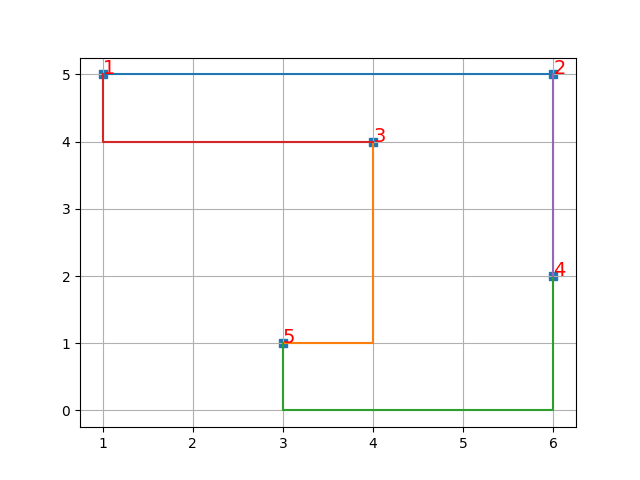
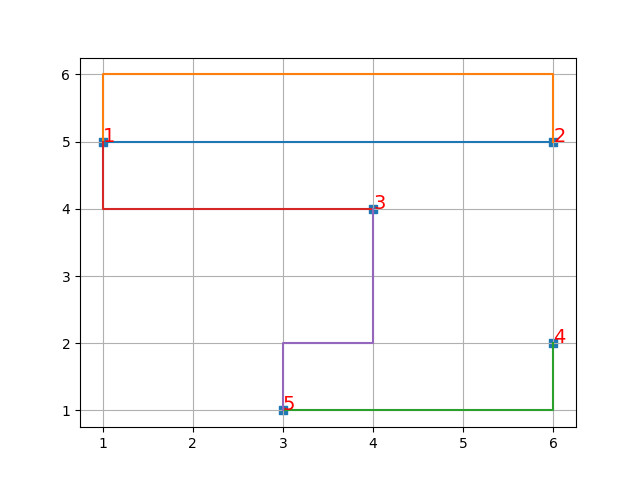
eerste versie van a-star toegevoegd in versie2

diff --git a/versie2.py b/versie2.py
@@ -1,3 +1,4 @@
+from queue import Empty
 from sys import getallocatedblocks
 import matplotlib
 from matplotlib import pyplot as plt
@@ -35,6 +36,18 @@ class board:
         self.nets = {}
         self.cost = 0
 
+class path:
+    def __init__(self, coordinates):
+        self.wires = coordinates
+        self.score = 0
+
+class node:
+    def __init__(self, location, parent):
+        self.location = location
+        self.parent = parent
+        self.g = 0
+        self.h = 0
+        self.f = 0
 
 # read chip data of csv file input
 # Function reads the coordinates of the gates on the print, and the netlist
@@ -73,10 +86,6 @@ print("Netlist: ", netlist)
 print("Gates: ", gates)
 print("Gate locations: ", gatelocations)
 
-random.shuffle(netlist)
-print("Netlist na shuffelen: ")
-print(netlist)
-
 bord1 = board(gates)
 
 print("Bord breedte: ", bord1.width)
@@ -84,106 +93,126 @@ print("Bord lengte: ", bord1.length)
 print("")
 
 
-
-# Niet echt meer nodig als we een betere draw hebben
-# # Basic printing function to visualize board configuration
-# def print_board(board):
-#     for y in range(board.length - 1, -1, -1):
-#         row = []
-
-#         for x in range(0, board.width):
-#             al_geprint = False
-
-#             for gate in board.gates:
-                
-#                 if (gate[1], gate[2]) == (x, y):
-#                     print("", gate[0], "", end = '')
-#                     al_geprint = True
-            
-#             if al_geprint == False:            
-#                 print(" + ", end = '')
-
-#         print("\n")
-
-# print_board(bord1)
-
-
 # Create a path on board from loc to dest
 # Branch from starting location and continue to branch to find paths to dest
-def make_net(board, loc, dest, objectives):
-    print("Objective = moving from gate ", objectives[0][0], " to ", objectives[0][1])
-    print("Finding path from ", loc, " to ", dest, "...")
-    hypothetical_paths = [[loc]]
-    result_boards = []
+def make_net(board, start, goal):
+    print("Finding path from ", start, " to ", goal, "...")
+    starting_node = node(start, None)
 
-    moving_possible = True
-    while moving_possible == True:
+    # open list
+    options = [starting_node]
+    # closed list
+    seen = []
 
-        new_paths = []
-        for path in hypothetical_paths:
-            # Check the cardinal direction of last move from path to avoid
-            # backtracking and getting stuck in a loop.
-            origin = get_origin(path)
-            moves = get_moves(board, path, origin)
+    # moving_possible = True
+    # while moving_possible == True:
 
-            # For each spot found that can be moved to, add a new 
-            # path (= old path + spot) to the collection of paths
-            for move in moves:
-                if move != False:
-                    new_path = path + [move]
-                    
-                    # Check if path is a path to destination
-                    # If more than one objective is left, start making net for
-                    # next objective. If not, the final path for current
-                    # configuration is found, so return the board.
-                    if move == dest:
-                        board.nets[objectives[0]] = new_path
-                        print("found path: ")
-                        print(new_path)
-                        print("")
+    # While the collection of paths is not empty, extend the path with the
+    # lowest score (which represents the shortest distance to goal)
+    # 
+    # while options are left:
+    #   pop lowest cost option
+    #   add to closed list (seen)
+    #   get possible moves from option
+    #   for each of these moves:
+    #       If it is not in the open list, add it to the open list.
+    #           current becomes the parent of this option
+    #           Save the f, g, and h of this current option
+    #       If it is in the open list already
+    #           Check to see if the path already existing in the options is
+    #           cheaper (by g cost). 
+    #           If so:
+    #               change the parent of that option already in options to the
+    #               be the current node, and update its g and f score
+    #   
+    #   Stop when you:
+    #       add the target to the closed list (seen). Then a path is found.
+    #       fail to find the target square and the open list is empty.
+    #       In this case no path is found...
+    #   when you find a path, trace back the parents of the found goal node
+    #   to obtain its path.
+    # 
+    # g = dist from start to current node
+    # h = heuristic, distance from current node to goal
+    # f = g + h
+    while options:
+        # extract the most promising path (lowest score)
+        options.sort(key = lambda location: location.f, reverse = True)
 
-                        if len(objectives) > 1:
-                            new_objective = objectives[1]
-                            new_location = board.gates[new_objective[0]]
-                            new_destination = board.gates[new_objective[1]]
+        print("Sorted options")
+        for opt in options:
+            print(opt.location, opt.f)
 
-                            new_board = make_net(board, new_location, new_destination, objectives[1:])
+        current = options.pop()
+        # Check to see if goal is found
+        if current.location == goal:
+            print("found path to ", goal)
+            check = current
+            result = [check.location]
 
-                            if new_board != False:
-                                return new_board
-                        else:
-                            return board
-                    # If path has not yet reached dest, continue moving.
-                    # Except if move is about to pass a gate
-                    elif move not in gatelocations:
-                        new_paths.append(new_path)
+            while check.parent != None:
+                result.append(check.parent.location)
+                check = check.parent
+            result.reverse()
+            
+            return result
 
-        if new_paths == hypothetical_paths:
-            print("Found no new paths")
-            moving_possible = False
+        seen.append(current)
 
-        # update hypothetical paths
-        hypothetical_paths = [] + new_paths
+        print("Walking ", current.location)
 
-    # Moving is no longer possible
+        # Check the cardinal direction of last move from path to avoid
+        # backtracking and getting stuck in a loop.
+        origin = get_origin(current)
+        moves = get_moves(board, current.location, origin)
+
+        # For each spot found that can be moved to, add a new 
+        # path (= old path + spot) to the collection of paths
+        for move in moves:
+            if move != False:
+                new_option = node(move, parent = current)
+                new_option.g = current.g + 1
+                # calculate heuristic
+                new_option.h = abs(move[0] - goal[0]) + abs(move[1] - goal[1])
+                new_option.f = new_option.g + new_option.h
+
+                print("Adding node ", move)
+                print("    parent = ", new_option.parent.location)
+
+                # check if this option is not already in in options
+                already_added = False
+                for option in options:
+                    # if it is already in options, compare it to the new_option
+                    if option.location == move:
+                        already_added = True
+
+                        if option.g < new_option.g:
+                            option = new_option
+
+                if already_added == False:
+                    options.append(new_option)
+
+    print("options ran out....")
     return False
+
+
+
 
 
 # Returns possible moves that can be taken from end of path.
 # For each cardinal direction, refuse to generate move if that direction is
 # the source of the last move taken (to prevent moving back), and refuse to
 # generate move if that move steps outside of the boundarys of the board.
-def get_moves(board, path, origin):
+def get_moves(board, cur_location, origin):
     # print("")
     moves = []
-    cur_location = path[-1]
     # print("Getting moves from location ", cur_location)
 
     if origin != "S" and cur_location[1] < board.length - 1:
         north = (cur_location[0], cur_location[1] + 1)
     else:
         north = False
-    # print("North: ", north)
+    # print("North: ", north)   
 
     if origin != "W" and cur_location[0] < board.width - 1:
         east = (cur_location[0] + 1, cur_location[1])
@@ -202,21 +231,6 @@ def get_moves(board, path, origin):
     else:
         west = False
     # print("West: ", west)
-
-    # prevent path from visiting already visted coordinates
-    for coord in path:
-        if coord == north:
-            # print("coord ", coord, "already visited")
-            north = False
-        if coord == east:
-            # print("coord ", coord, "already visited")
-            east = False
-        if coord == south:
-            # print("coord ", coord, "already visited")
-            south = False
-        if coord == west:
-            # print("coord ", coord, "already visited")
-            west = False
 
     # Prevent moves from entering coordinates already used by other nets in board
     for net in board.nets:
@@ -237,25 +251,26 @@ def get_moves(board, path, origin):
 
 
 # Check what the last direction the path has taken is.
-def get_origin(path):
-    if len(path) == 1:
+def get_origin(node):
+    if node.parent == None:
         return "None"
-    elif path[-1][0] > path[-2][0]:
+    current_location = node.location
+    parent_location = node.parent.location
+    
+    if current_location[0] > parent_location[0]:
         return "E"
-    elif path[-1][0] < path[-2][0]:
+    elif current_location[0] < parent_location[0]:
         return "W"
-    elif path[-1][1] > path[-2][1]:
+    elif current_location[1] > parent_location[1]:
         return "N"
-    elif path[-1][1] < path[-2][1]:
+    elif current_location[1] < parent_location[1]:
         return "S"
     else:
         return False
 
 
-print(netlist)
-test = make_net(bord1, gates[netlist[0][0]], gates[netlist[0][1]], netlist)
-print(test.nets)
-
+test = make_net(bord1, gates[netlist[0][0]], gates[netlist[0][1]])
+print(test)
 
 # Hardcode voorbeeld om te kijken of de onderstaande functie wel goed nets van
 # een bord kan printen.
